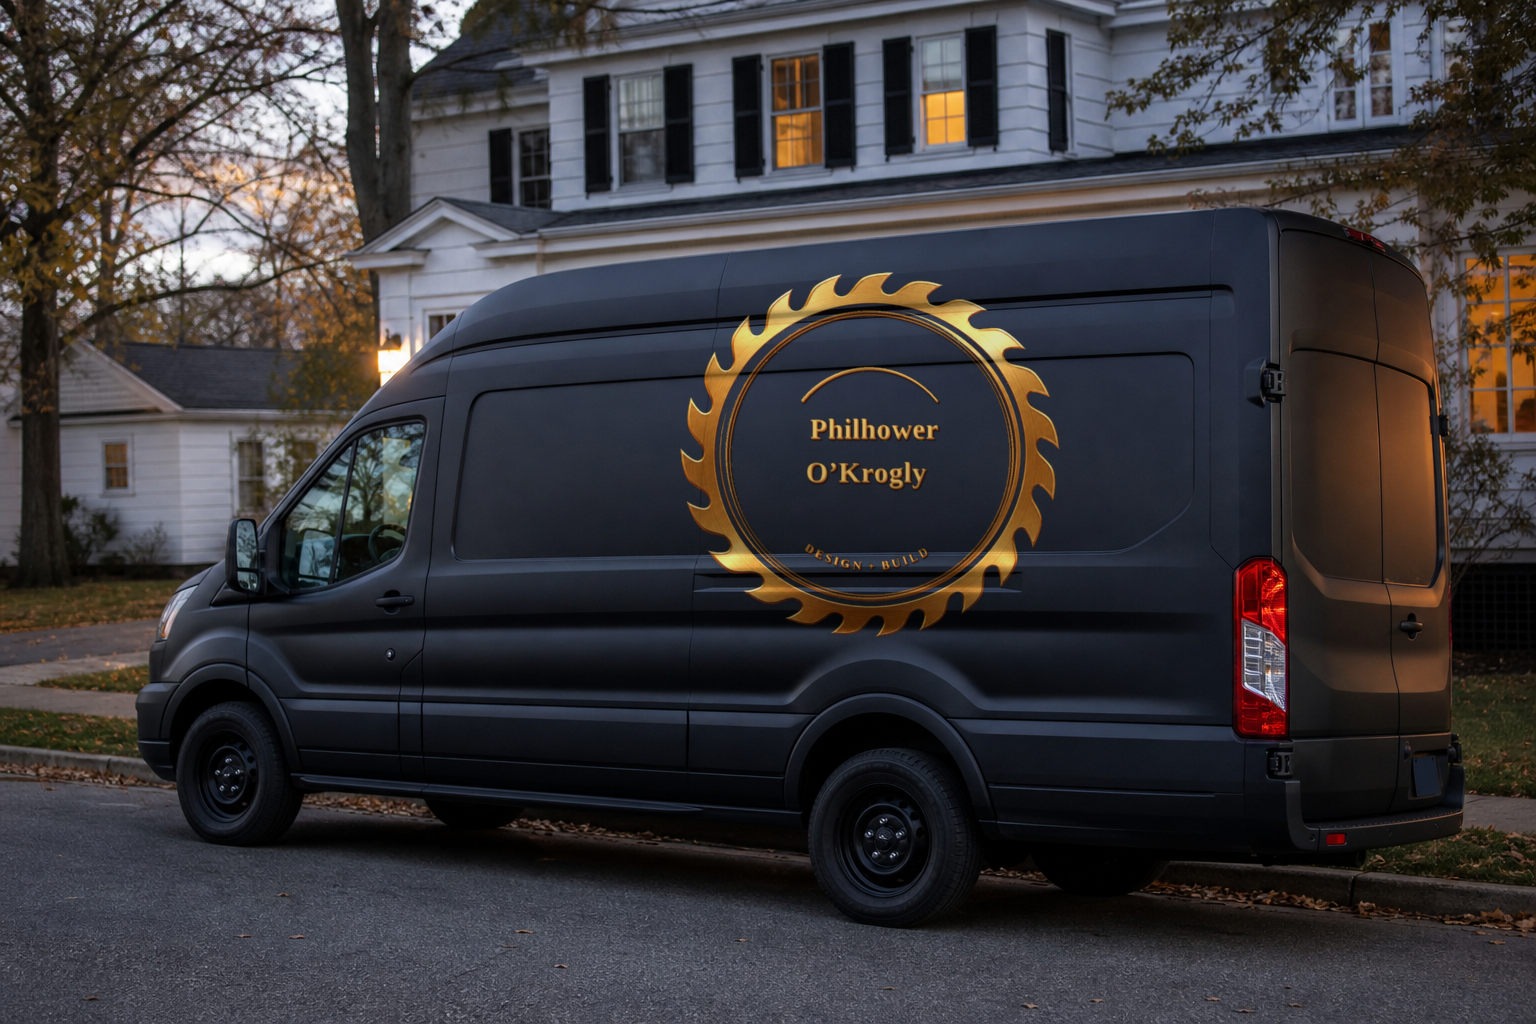
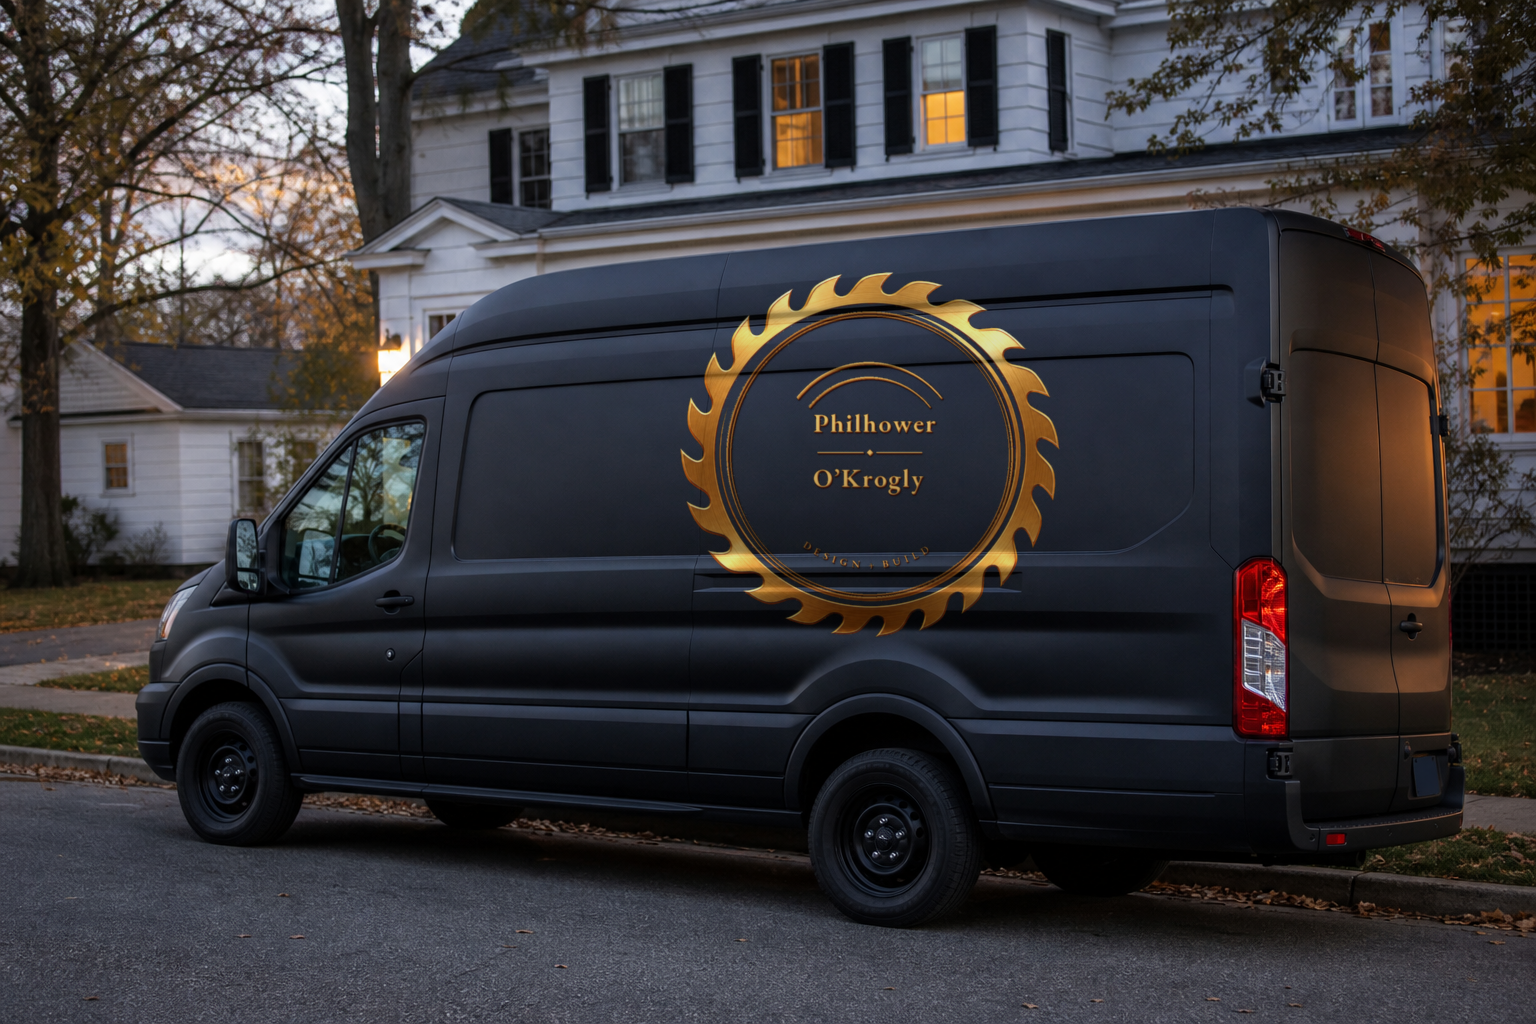
Redesign POK as an old-style modern Garamond seal.
Hills blade with twin arcs, hairline lozenge, and both names in EB
Garamond at one size. Theme 1.0.23 / brands-print-16.

diff --git a/dphilhower-studio-wp/preview/work/philhower-okrogly/index.html b/dphilhower-studio-wp/preview/work/philhower-okrogly/index.html
@@ -4,7 +4,7 @@
   <meta charset="utf-8">
   <meta name="viewport" content="width=device-width, initial-scale=1">
   <title>Philhower &amp; O’Krogly — D Philhower Studio</title>
-  <meta name="description" content="Philhower &amp; O’Krogly Design + Build by D Philhower Studio: Hills saw-blade seal with both names in modern Times New Roman.">
+  <meta name="description" content="Philhower &amp; O’Krogly Design + Build by D Philhower Studio: old-style modern seal — Hills blade, Garamond names, DESIGN + BUILD.">
   <link rel="icon" href="../../img/favicon.svg" type="image/svg+xml">
   <link rel="preconnect" href="https://fonts.googleapis.com">
   <link rel="preconnect" href="https://fonts.gstatic.com" crossorigin>
@@ -31,7 +31,7 @@
       <p>Design + Build</p>
     </header>
     <div class="case-hero">
-      <img src="../../img/pok-hero.png" alt="Philhower &amp; O’Krogly lockup: Hills saw blade with Philhower and O’Krogly both in modern Times New Roman, DESIGN + BUILD" width="1536" height="1024">
+      <img src="../../img/pok-hero.png" alt="Philhower &amp; O’Krogly old-style modern seal: Hills saw blade, Garamond names, engraved rule, DESIGN + BUILD" width="1536" height="1024">
     </div>
     <article class="case-body">
       <ul class="case-meta">
@@ -41,7 +41,7 @@
         <li><strong>Place</strong><br>Northern New Jersey</li>
       </ul>
       <div class="entry-content">
-        <p>Same seal as Service The Hills: official bronze saw blade, double ring, top arcs. Philhower and O’Krogly are both set in modern Times New Roman — same size, same weight. DESIGN + BUILD on the bottom arc in the same face.</p>
+        <p>Old-style, modern cut. Official Hills bronze blade, double ring, twin top arcs. Philhower and O’Krogly share one Garamond — same size, open tracking — split by a hairline and lozenge. DESIGN + BUILD on the bottom arc.</p>
         <p>One lockup. Polo, van, yard, card, fridge. Black field so gold reads.</p>
       </div>
     </article>
@@ -56,7 +56,7 @@
         </figure>
         <figure>
           <img src="../../img/pok-print-shirt.png" alt="Black polo with the Philhower &amp; O’Krogly saw-blade lockup centered on the chest" width="1536" height="1024">
-          <figcaption><strong>Polo</strong> Center chest. Both names in modern Times New Roman.</figcaption>
+          <figcaption><strong>Polo</strong> Center chest. Old-style modern seal — both names in Garamond.</figcaption>
         </figure>
         <figure>
           <img src="../../img/pok-print-van.png" alt="Matte black van with the Philhower &amp; O’Krogly saw-blade lockup on the side" width="1536" height="1024">
@@ -68,7 +68,7 @@
         </figure>
         <figure>
           <img src="../../img/pok-print-card.png" alt="Black business cards with the Philhower &amp; O’Krogly saw-blade lockup" width="1536" height="1024">
-          <figcaption><strong>Cards</strong> Black stock. Blade and Times New Roman names — same lockup as the shirt.</figcaption>
+          <figcaption><strong>Cards</strong> Black stock. Blade and Garamond seal — same lockup as the shirt.</figcaption>
         </figure>
         <figure>
           <img src="../../img/pok-print-magnet.png" alt="Fridge magnet with the Philhower &amp; O’Krogly saw-blade lockup" width="1536" height="1024">

diff --git a/dphilhower-studio-wp/theme/dphilhower-studio/style.css b/dphilhower-studio-wp/theme/dphilhower-studio/style.css
@@ -4,7 +4,7 @@ Theme URI: https://dphilhower.com
 Author: D Philhower Studio
 Author URI: https://dphilhower.com
 Description: Custom graphic design studio theme for D Philhower Studio at dphilhower.com — portfolio, services, about, and project inquiries. Activate the theme to load demo pages and work samples.
-Version: 1.0.22
+Version: 1.0.23
 Requires at least: 6.4
 Tested up to: 6.8
 Requires PHP: 7.4

diff --git a/dphilhower-studio-wp/theme/dphilhower-studio/inc/brand-kits.php b/dphilhower-studio-wp/theme/dphilhower-studio/inc/brand-kits.php
@@ -289,7 +289,7 @@ function dps_brand_kits() {
 		'philhower-okrogly'        => array(
 			'label'  => __( 'Print system', 'dphilhower-studio' ),
 			'title'  => __( 'One lockup, five scales', 'dphilhower-studio' ),
-			'intro'  => __( 'Same seal as Service The Hills: official bronze blade, double ring. Philhower and O’Krogly both in modern Times New Roman — same size and weight. DESIGN + BUILD on the bottom arc. Polo, van, yard, card, fridge — one lockup.', 'dphilhower-studio' ),
+			'intro'  => __( 'Old-style, modern cut. Official Hills bronze blade, double ring, twin top arcs. Philhower and O’Krogly share one Garamond — same size, open tracking — split by a hairline and lozenge. DESIGN + BUILD on the bottom arc. Polo, van, yard, card, fridge — one lockup.', 'dphilhower-studio' ),
 			'pieces' => array(
 				array(
 					'file'    => 'pok-seal-hero.png',
@@ -301,7 +301,7 @@ function dps_brand_kits() {
 					'file'    => 'pok-print-shirt.png',
 					'alt'     => __( 'Black polo with the Philhower & O’Krogly saw-blade lockup centered on the chest', 'dphilhower-studio' ),
 					'heading' => __( 'Polo', 'dphilhower-studio' ),
-					'story'   => __( 'Center chest. Both names in modern Times New Roman.', 'dphilhower-studio' ),
+					'story'   => __( 'Center chest. Old-style modern seal — both names in Garamond.', 'dphilhower-studio' ),
 				),
 				array(
 					'file'    => 'pok-print-van.png',
@@ -319,7 +319,7 @@ function dps_brand_kits() {
 					'file'    => 'pok-print-card.png',
 					'alt'     => __( 'Black business cards with the Philhower & O’Krogly saw-blade lockup', 'dphilhower-studio' ),
 					'heading' => __( 'Cards', 'dphilhower-studio' ),
-					'story'   => __( 'Black stock. Blade and Times New Roman names — same lockup as the shirt.', 'dphilhower-studio' ),
+					'story'   => __( 'Black stock. Blade and Garamond seal — same lockup as the shirt.', 'dphilhower-studio' ),
 				),
 				array(
 					'file'    => 'pok-print-magnet.png',

diff --git a/dphilhower-studio-wp/theme/dphilhower-studio/inc/setup-content.php b/dphilhower-studio-wp/theme/dphilhower-studio/inc/setup-content.php
@@ -326,7 +326,7 @@ function dps_seed_demo_content( $force = false ) {
 			'services' => 'Identity · embroidery · vehicle · signage',
 			'year'     => '2025',
 			'location' => 'Northern New Jersey',
-			'content'  => '<p>Same seal as Service The Hills: official bronze saw blade, double ring, top arcs. Philhower and O’Krogly are both set in modern Times New Roman — same size, same weight. DESIGN + BUILD on the bottom arc in the same face.</p><p>One lockup. Polo, van, yard, card, fridge. Black field so gold reads.</p>',
+			'content'  => '<p>Old-style, modern cut. Official Hills bronze blade, double ring, twin top arcs. Philhower and O’Krogly share one Garamond — same size, open tracking — split by a hairline and lozenge. DESIGN + BUILD on the bottom arc.</p><p>One lockup. Polo, van, yard, card, fridge. Black field so gold reads.</p>',
 		),
 		array(
 			'slug'     => 'cafe-robust',
@@ -461,7 +461,7 @@ function dps_seed_demo_content( $force = false ) {
 	flush_rewrite_rules();
 
 	update_option( 'dps_demo_seeded', DPS_VERSION );
-	update_option( 'dps_images_version', 'brands-print-15' );
+	update_option( 'dps_images_version', 'brands-print-16' );
 	return true;
 }
 

diff --git a/dphilhower-studio-wp/theme/dphilhower-studio/functions.php b/dphilhower-studio-wp/theme/dphilhower-studio/functions.php
@@ -9,7 +9,7 @@ if ( ! defined( 'ABSPATH' ) ) {
 	exit;
 }
 
-define( 'DPS_VERSION', '1.0.22' );
+define( 'DPS_VERSION', '1.0.23' );
 define( 'DPS_DIR', get_template_directory() );
 define( 'DPS_URI', get_template_directory_uri() );
 
@@ -164,14 +164,14 @@ function dps_maybe_upgrade_images() {
 	if ( 'dphilhower-studio' !== get_stylesheet() ) {
 		return;
 	}
-	if ( get_option( 'dps_images_version' ) === 'brands-print-15' ) {
+	if ( get_option( 'dps_images_version' ) === 'brands-print-16' ) {
 		return;
 	}
 	if ( ! get_option( 'dps_demo_seeded' ) ) {
 		return;
 	}
 	dps_seed_demo_content( true );
-	update_option( 'dps_images_version', 'brands-print-15' );
+	update_option( 'dps_images_version', 'brands-print-16' );
 }
 
 /**
